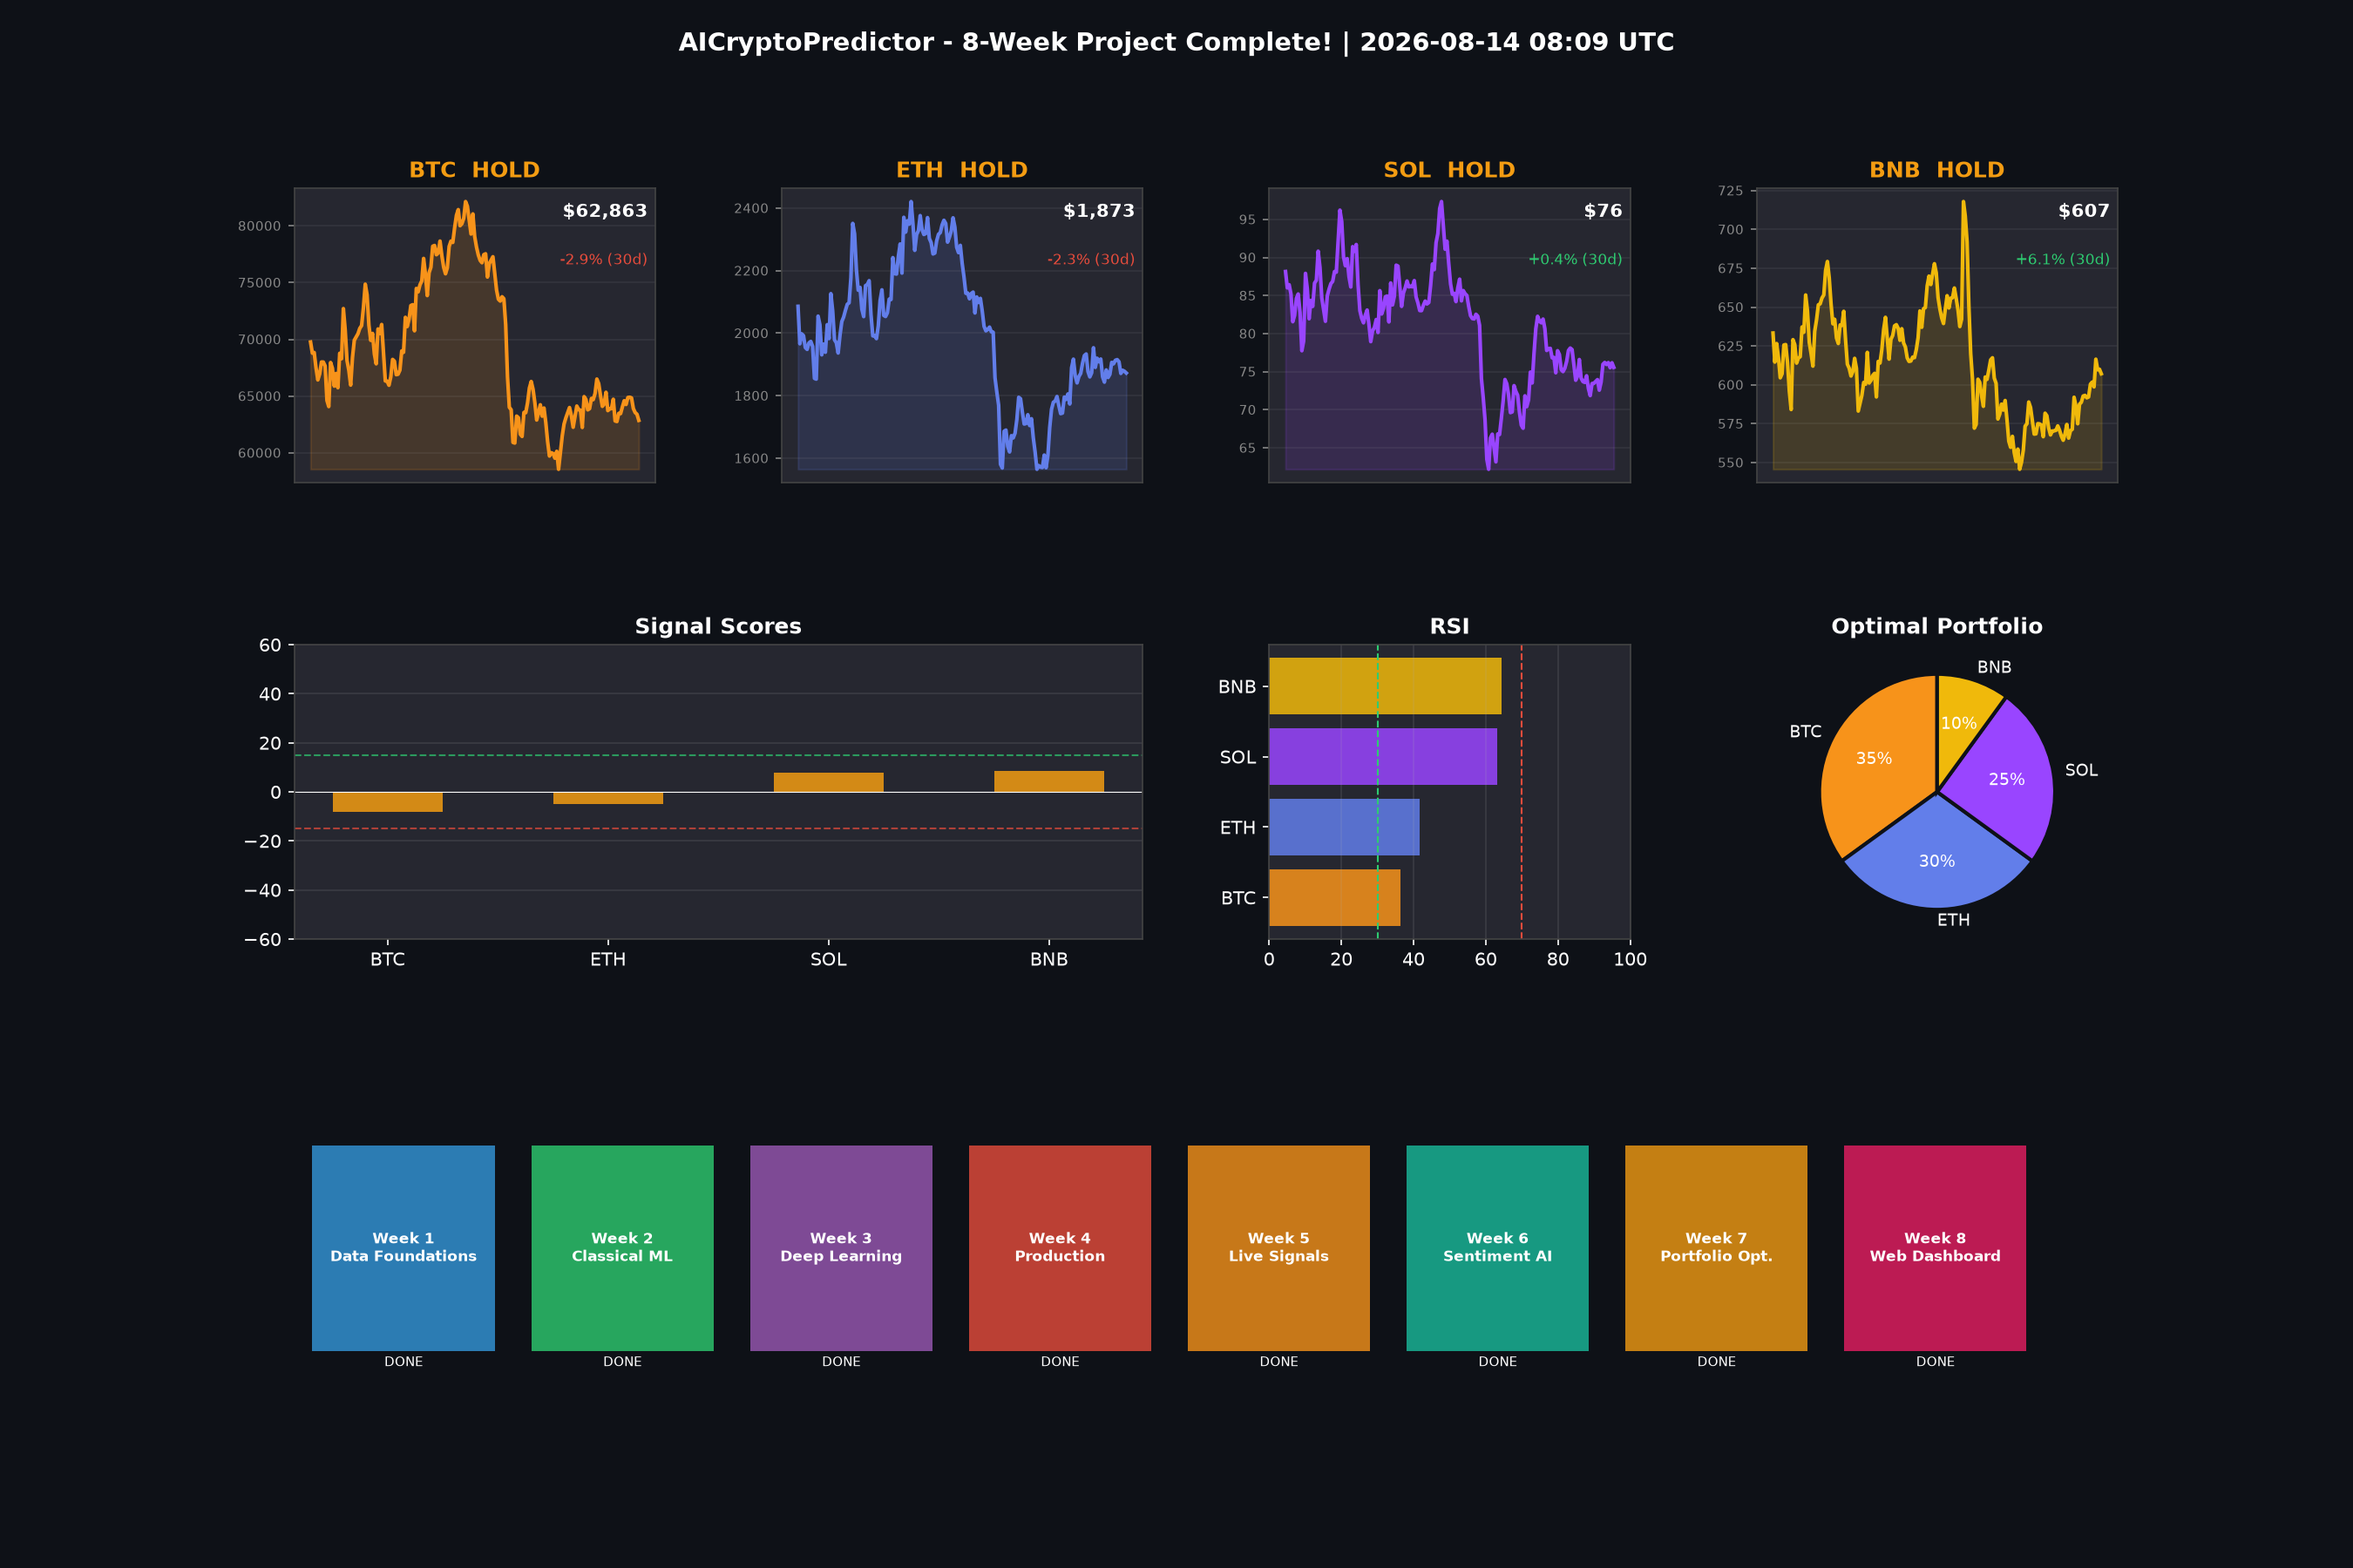
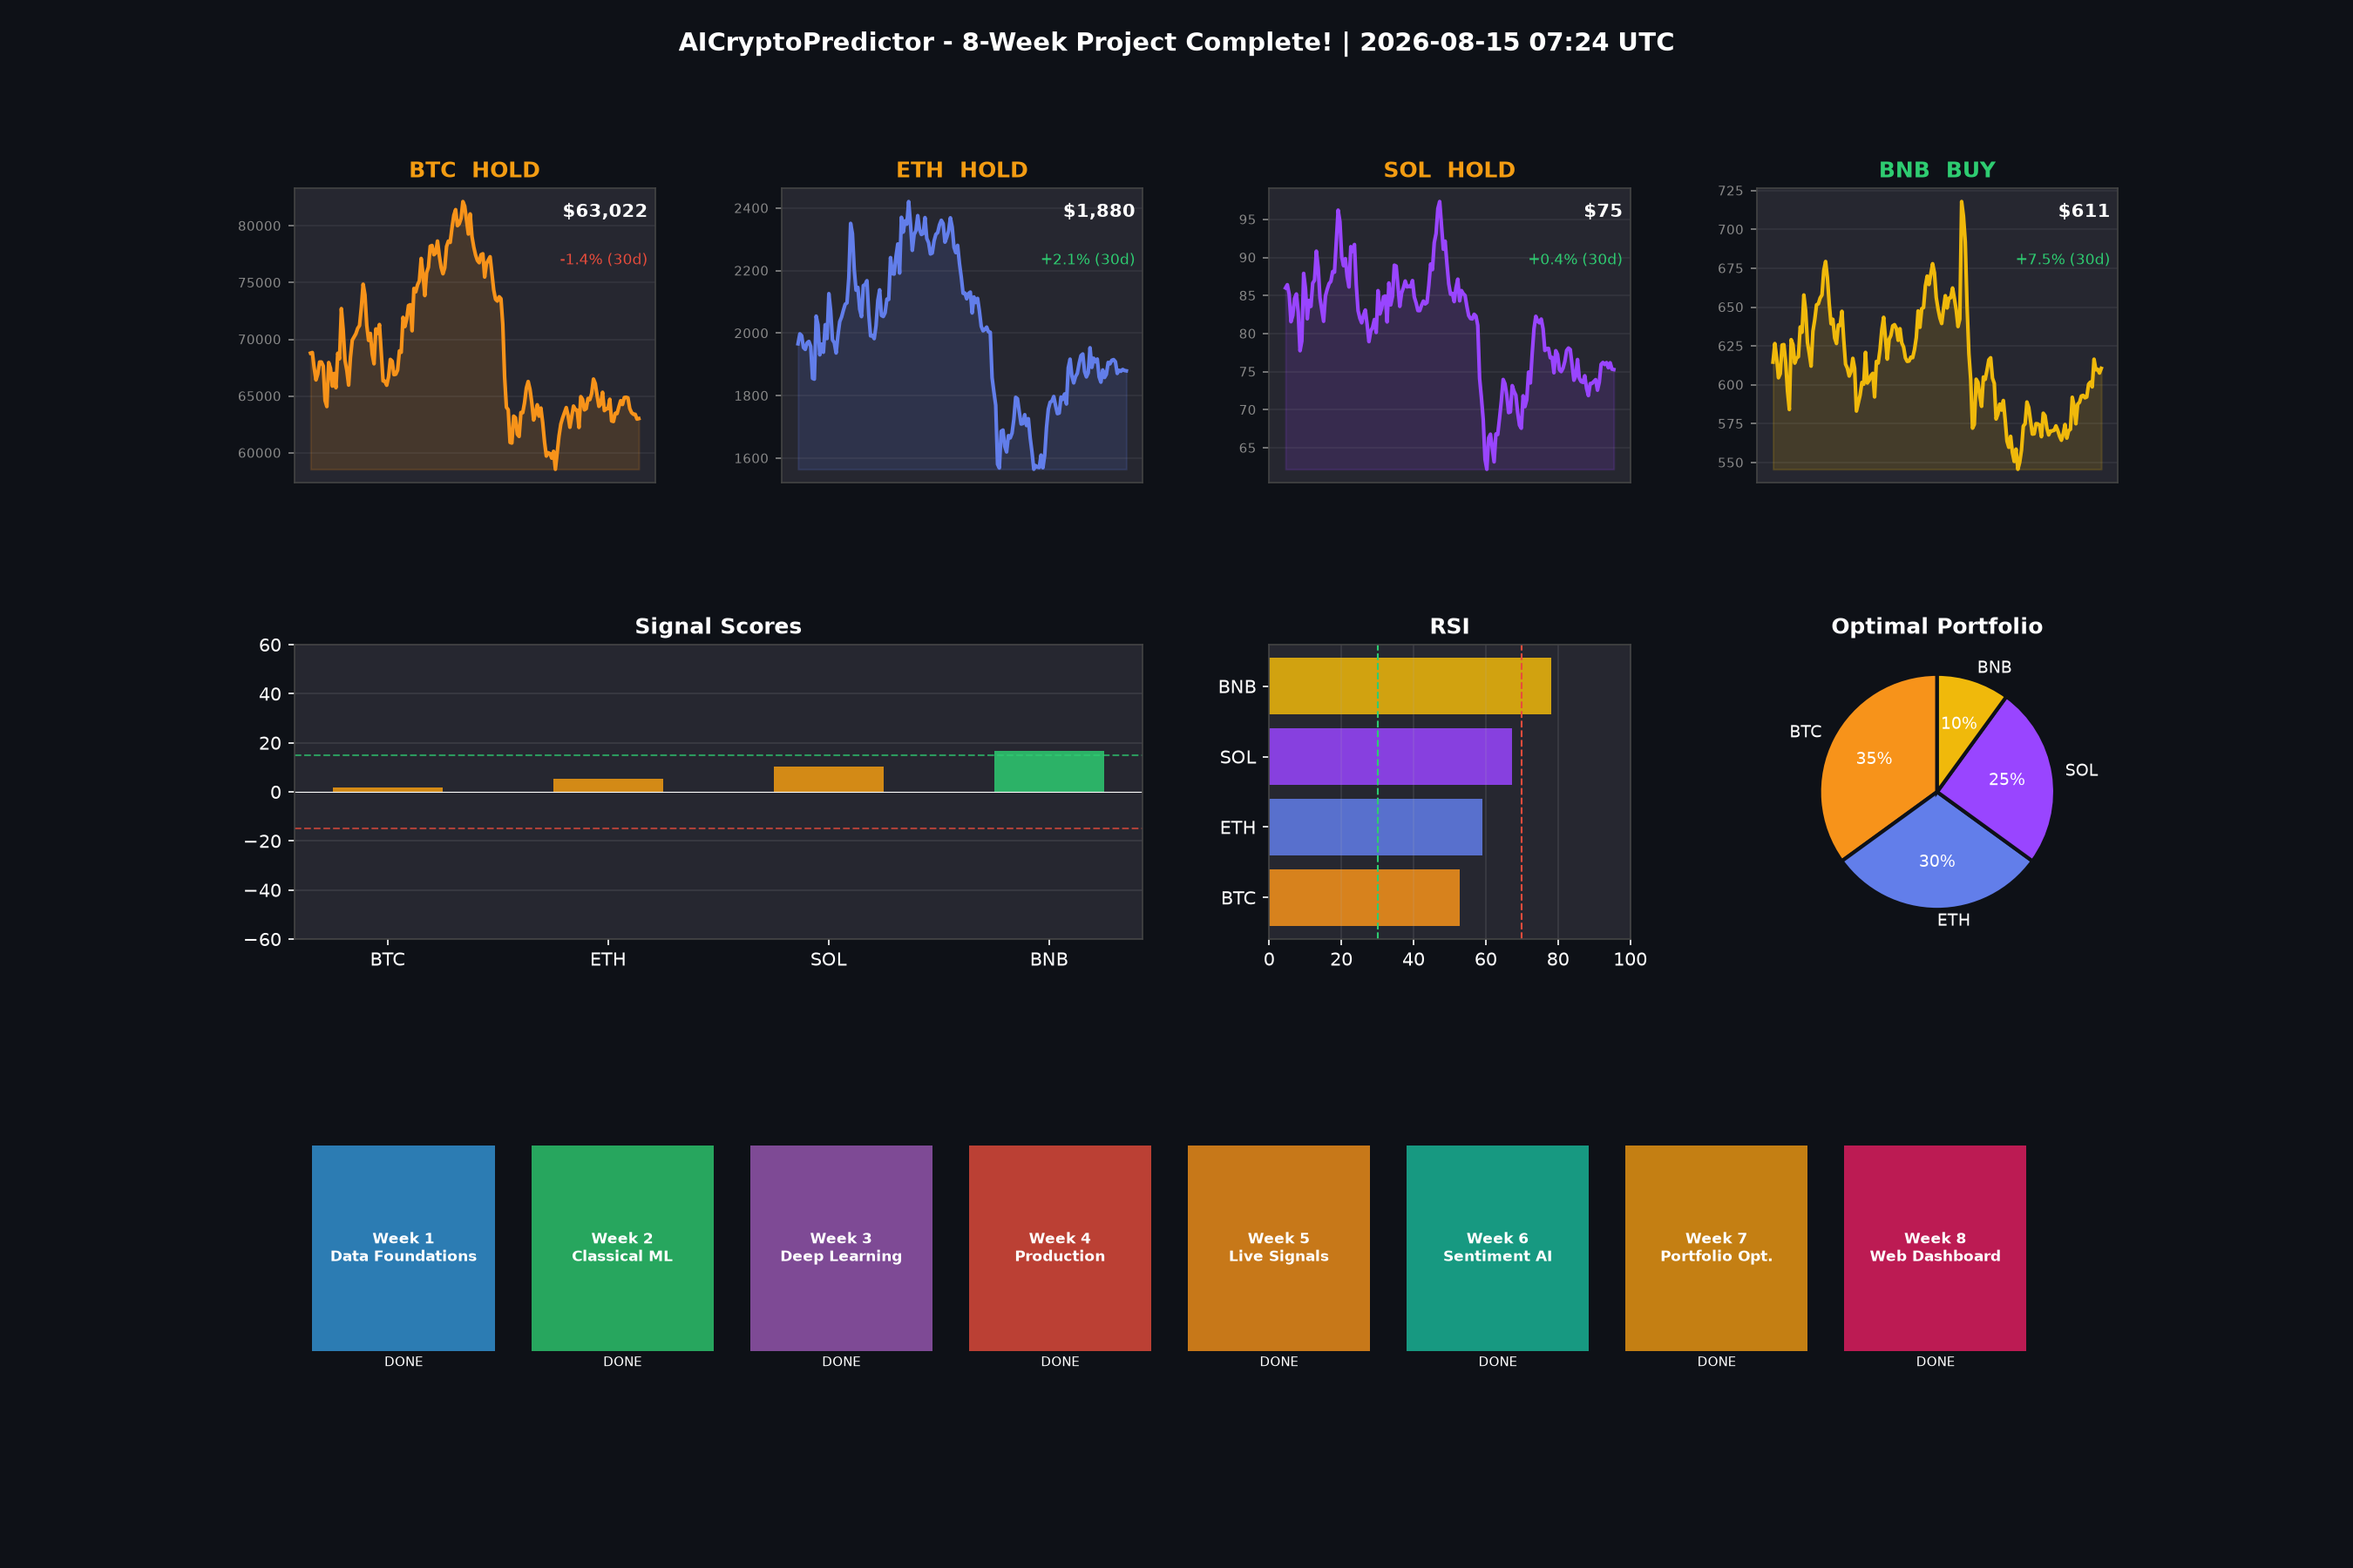
Day 56 - Full project complete! All 8 weeks done!

diff --git a/reports/day56.md b/reports/day56.md
@@ -2,7 +2,7 @@
 
 **Task:** Day 56 — Final dashboard & full project complete!
 **Script:** `daily_progress/week8/day56final.py`
-**Date:** 2026-08-14 08:09 UTC
+**Date:** 2026-08-15 07:24 UTC
 
 ## Output
 
@@ -10,7 +10,7 @@
 Day 56 - Final Dashboard & 8-Week Project Complete!
 ============================================================
 
-  Finished: 2026-08-14
+  Finished: 2026-08-15
 
   ============================================================
   =                                                          =
